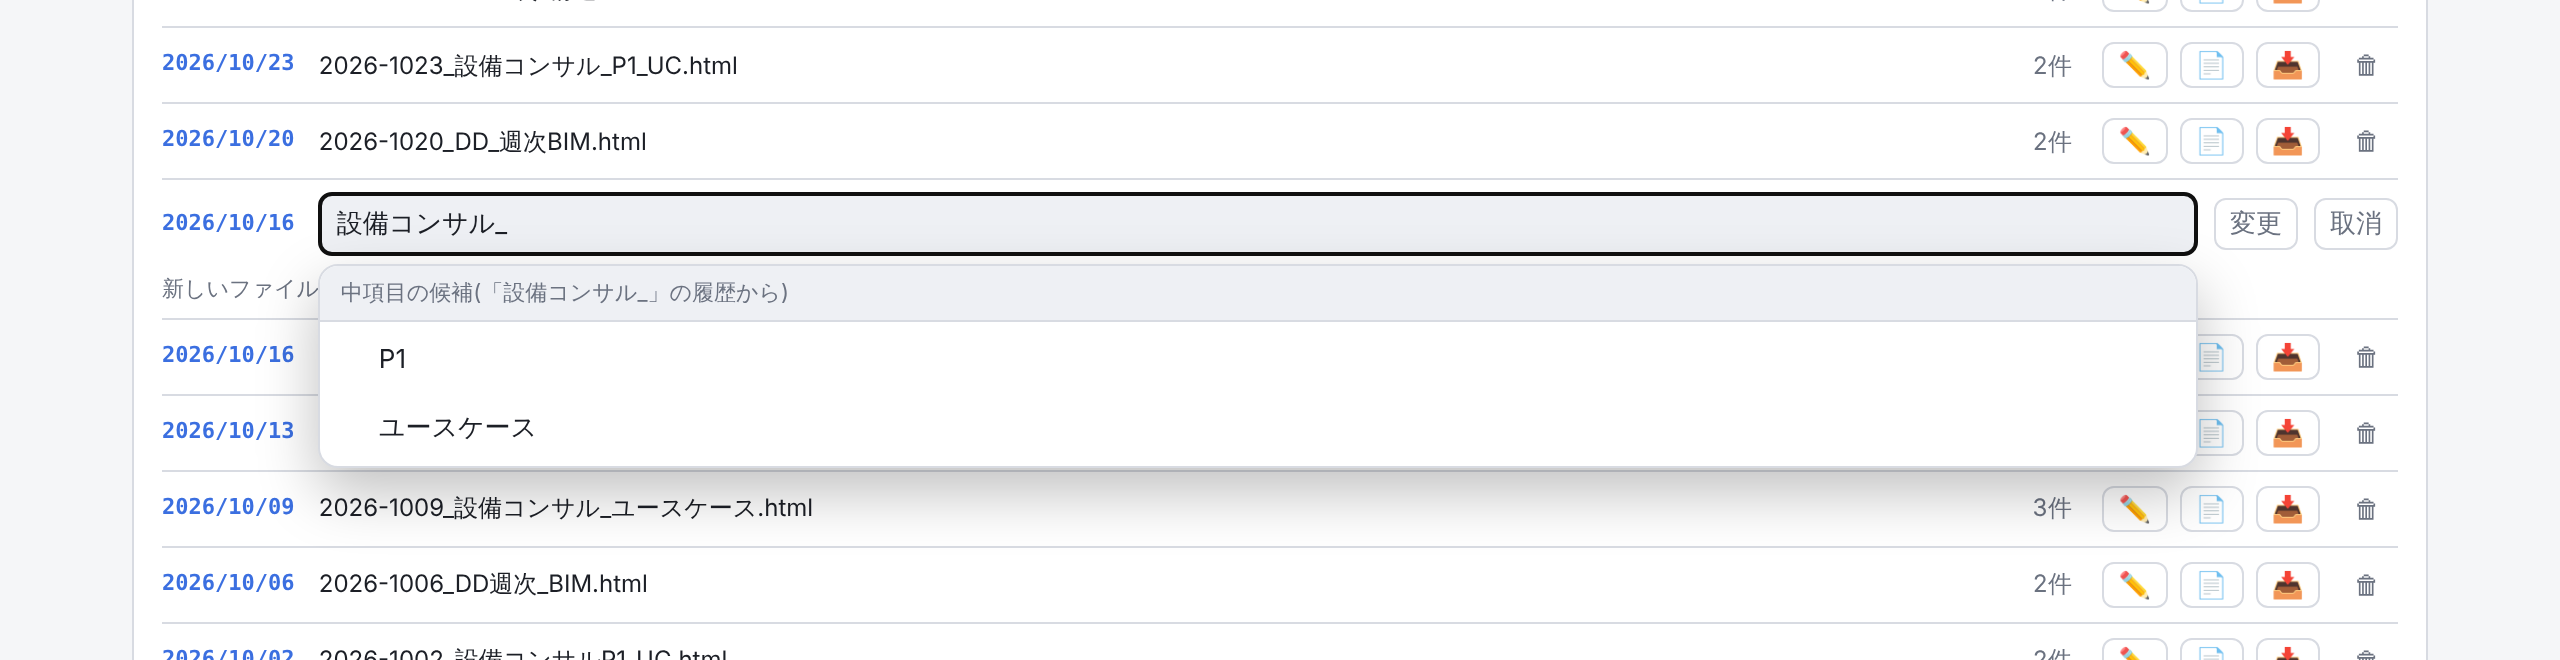
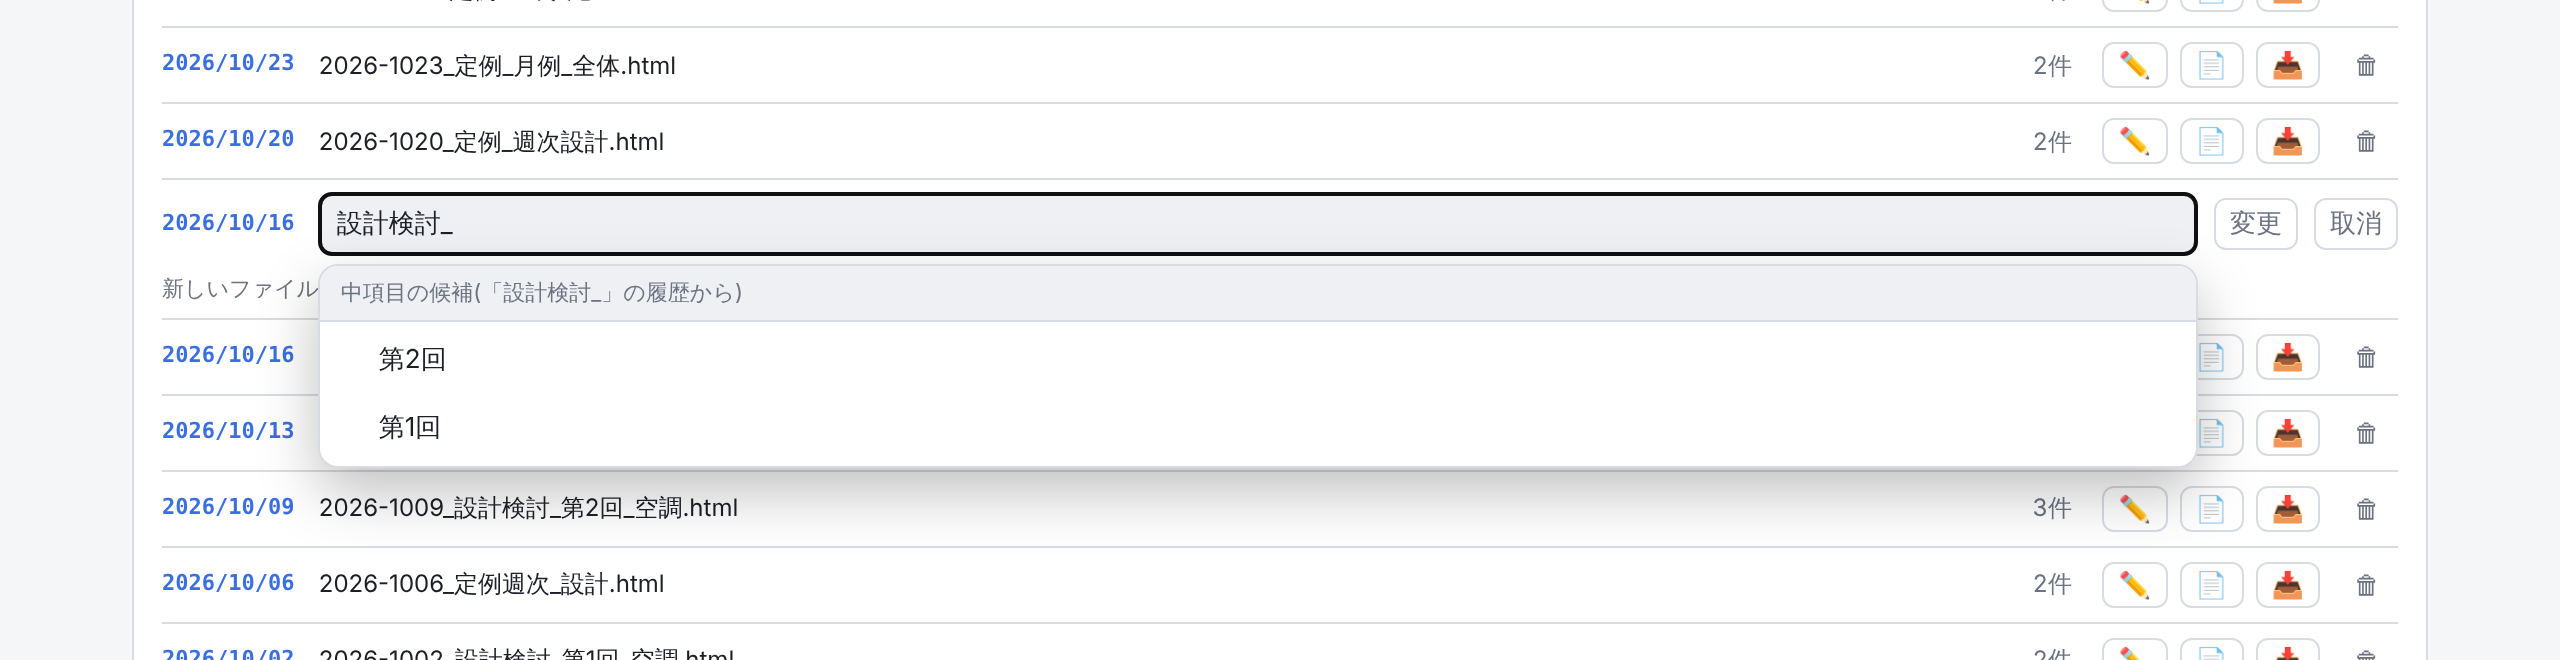
SmartCaptureMemo: ヘルプの例・画像を一般的なサンプル名に差し替え
Claude-Session: https://claude.ai/code/session_01YFt5PcScnp5RMTFYd4nYm6

diff --git a/SmartCaptureMemo/help.html b/SmartCaptureMemo/help.html
@@ -347,7 +347,7 @@
   <h2 id="list-ops">保存とその他の操作</h2>
   <ul>
     <li><strong>日付・資料タイトル</strong>: 書き出すHTMLのタイトルとファイル名(<code>日付_資料タイトル.html</code>)に使われます。前回の値は保持されます。</li>
-    <li><strong>資料タイトルの入力候補</strong>: 1文字入力すると、これまでに書き出したタイトルと<a href="#history">定番タイトル</a>から候補が出ます。「_」で区切って <code>大項目_中項目_小項目</code> のように付けると、区切りごとに候補が切り替わります(例: <code>DD_</code> と入力すると、DDの後ろに使った中項目が出ます)。<kbd>↑</kbd><kbd>↓</kbd>で選んで <kbd>Enter</kbd> / <kbd>Tab</kbd> で確定(大・中項目は確定すると「_」が付いて次の項目へ)、<kbd>Esc</kbd>で閉じます。★は定番タイトルです。名前の付け方は自由で、区切らなくても使えます。<strong>初期値はOFF</strong>なので、使うときは⚙設定の「資料タイトル」で入力補助をONにしてください。</li>
+    <li><strong>資料タイトルの入力候補</strong>: 1文字入力すると、これまでに書き出したタイトルと<a href="#history">定番タイトル</a>から候補が出ます。「_」で区切って <code>大項目_中項目_小項目</code> のように付けると、区切りごとに候補が切り替わります(例: <code>定例_</code> と入力すると、定例の後ろに使った中項目が出ます)。<kbd>↑</kbd><kbd>↓</kbd>で選んで <kbd>Enter</kbd> / <kbd>Tab</kbd> で確定(大・中項目は確定すると「_」が付いて次の項目へ)、<kbd>Esc</kbd>で閉じます。★は定番タイトルです。名前の付け方は自由で、区切らなくても使えます。<strong>初期値はOFF</strong>なので、使うときは⚙設定の「資料タイトル」で入力補助をONにしてください。</li>
     <li><strong>💾 HTML保存</strong>: 記録一覧を画像込みの1つのHTMLファイルとして書き出します。<a href="#settings">保存先フォルダ</a>を登録していればそのフォルダへ直接保存し(同名ファイルがあれば上書き確認)、未登録なら通常のダウンロードになります。保存すると<a href="#history">書き出し履歴</a>に記録されます。</li>
     <li><strong>⋯ メニュー</strong>
       <ul>
@@ -383,7 +383,7 @@
     <li><strong>📥 読み込む</strong>: そのファイルを記録一覧の末尾に読み込み、記録タブへ移ります。</li>
     <li><strong>✏ 名前を変更</strong>: 新しいタイトルを入力して Enter(または「変更」)で、ファイル名とファイル内の資料タイトル(ブラウザのタブ名・見出し・📥読み込み時のタイトル)をまとめて変更します。日付部分はそのまま残ります。入力中は資料タイトルと同じ候補が出ます。同じ名前のファイルがあるときは上書きするか確認します。同じファイル名の履歴(折りたたみ分も)と保存先フォルダの履歴ファイルも新しい名前に更新され、名前を変えた行には「旧名」の印が付き、マウスを乗せると変更前の名前を確認できます。PCのEdge/Chromeではファイルの名前変更として処理され、OneDrive等のバージョン履歴も引き継がれます(名前変更に対応していない環境では、新しい名前で保存してから元のファイルを削除します)。</li>
     <li><strong>⚠</strong>: ファイル名とファイル内の資料タイトル・日付が違う(エクスプローラー等で名前を変えた)ファイルに付きます。マウスを乗せると違う項目が表示され、✏で名前を変更すると揃います。</li>
-    <li><strong>★ 定番タイトル・タイトル整理</strong>(⚙設定で入力補助をONにしたときに表示): 押すと開き、これまでのタイトルを 大項目 / 中項目 / 小項目 の列で表示します。項目を選ぶと履歴をそのタイトルで絞り込み(もう一度押すか「解除」で戻す)、表記のばらつきを見つけて✏でそのまま直せます。☆を押すと定番タイトルに登録され、資料タイトルの入力候補の上位に出ます(途中までの「DD_週次」なども登録可。端末ごとに保存)。</li>
+    <li><strong>★ 定番タイトル・タイトル整理</strong>(⚙設定で入力補助をONにしたときに表示): 押すと開き、これまでのタイトルを 大項目 / 中項目 / 小項目 の列で表示します。項目を選ぶと履歴をそのタイトルで絞り込み(もう一度押すか「解除」で戻す)、表記のばらつきを見つけて✏でそのまま直せます。☆を押すと定番タイトルに登録され、資料タイトルの入力候補の上位に出ます(途中までの「定例_週次」なども登録可。端末ごとに保存)。</li>
     <li><strong>📋 パスをコピー</strong>: ⚙設定で「フォルダのパス」を入力しておくと表示されます。エクスプローラーのアドレス欄に貼り付けて Enter で、保存先フォルダを開けます(ブラウザからはフォルダを直接開けないため)。</li>
     <li><strong>📂 フォルダから追加</strong>: 保存先フォルダにあるHTMLのうち、履歴に無いもの(旧ツールや別の方法で保存したファイルなど)を履歴に追加します。資料の日付はファイル内の日付 → ファイル名の日付 → ファイルの保存日時 の順で、タイトル・件数はファイルの中身から読み取ります。このツール(旧Screen Capture Memoを含む)で書き出したHTML以外は対象外です。</li>
     <li><strong>🧹(右端)</strong>: 保存先フォルダに見つからない(取り消し線の)履歴があるときだけ表示されます。確認のうえ、その履歴をまとめて削除します(ファイルは削除しません)。</li>

diff --git a/SmartCaptureMemo/index.html b/SmartCaptureMemo/index.html
@@ -4901,7 +4901,7 @@
 
   // ----- 定番タイトル・タイトル整理(履歴タブのカラムビュー) -----
   const titleOrg = $("titleOrg"), titleOrgToggle = $("titleOrgToggle"), titleOrgBody = $("titleOrgBody"), titleOrgArrow = $("titleOrgArrow"), titleOrgFilter = $("titleOrgFilter");
-  let titleColSel = []; // 選択中の項目(例: ["DD","週次"])
+  let titleColSel = []; // 選択中の項目(例: ["定例","週次"])
   function matchesTitleColSel(h){
     if(!titleAssistOn || !titleColSel.length) return true;
     const segs = titleSegs(histTitle(h));
